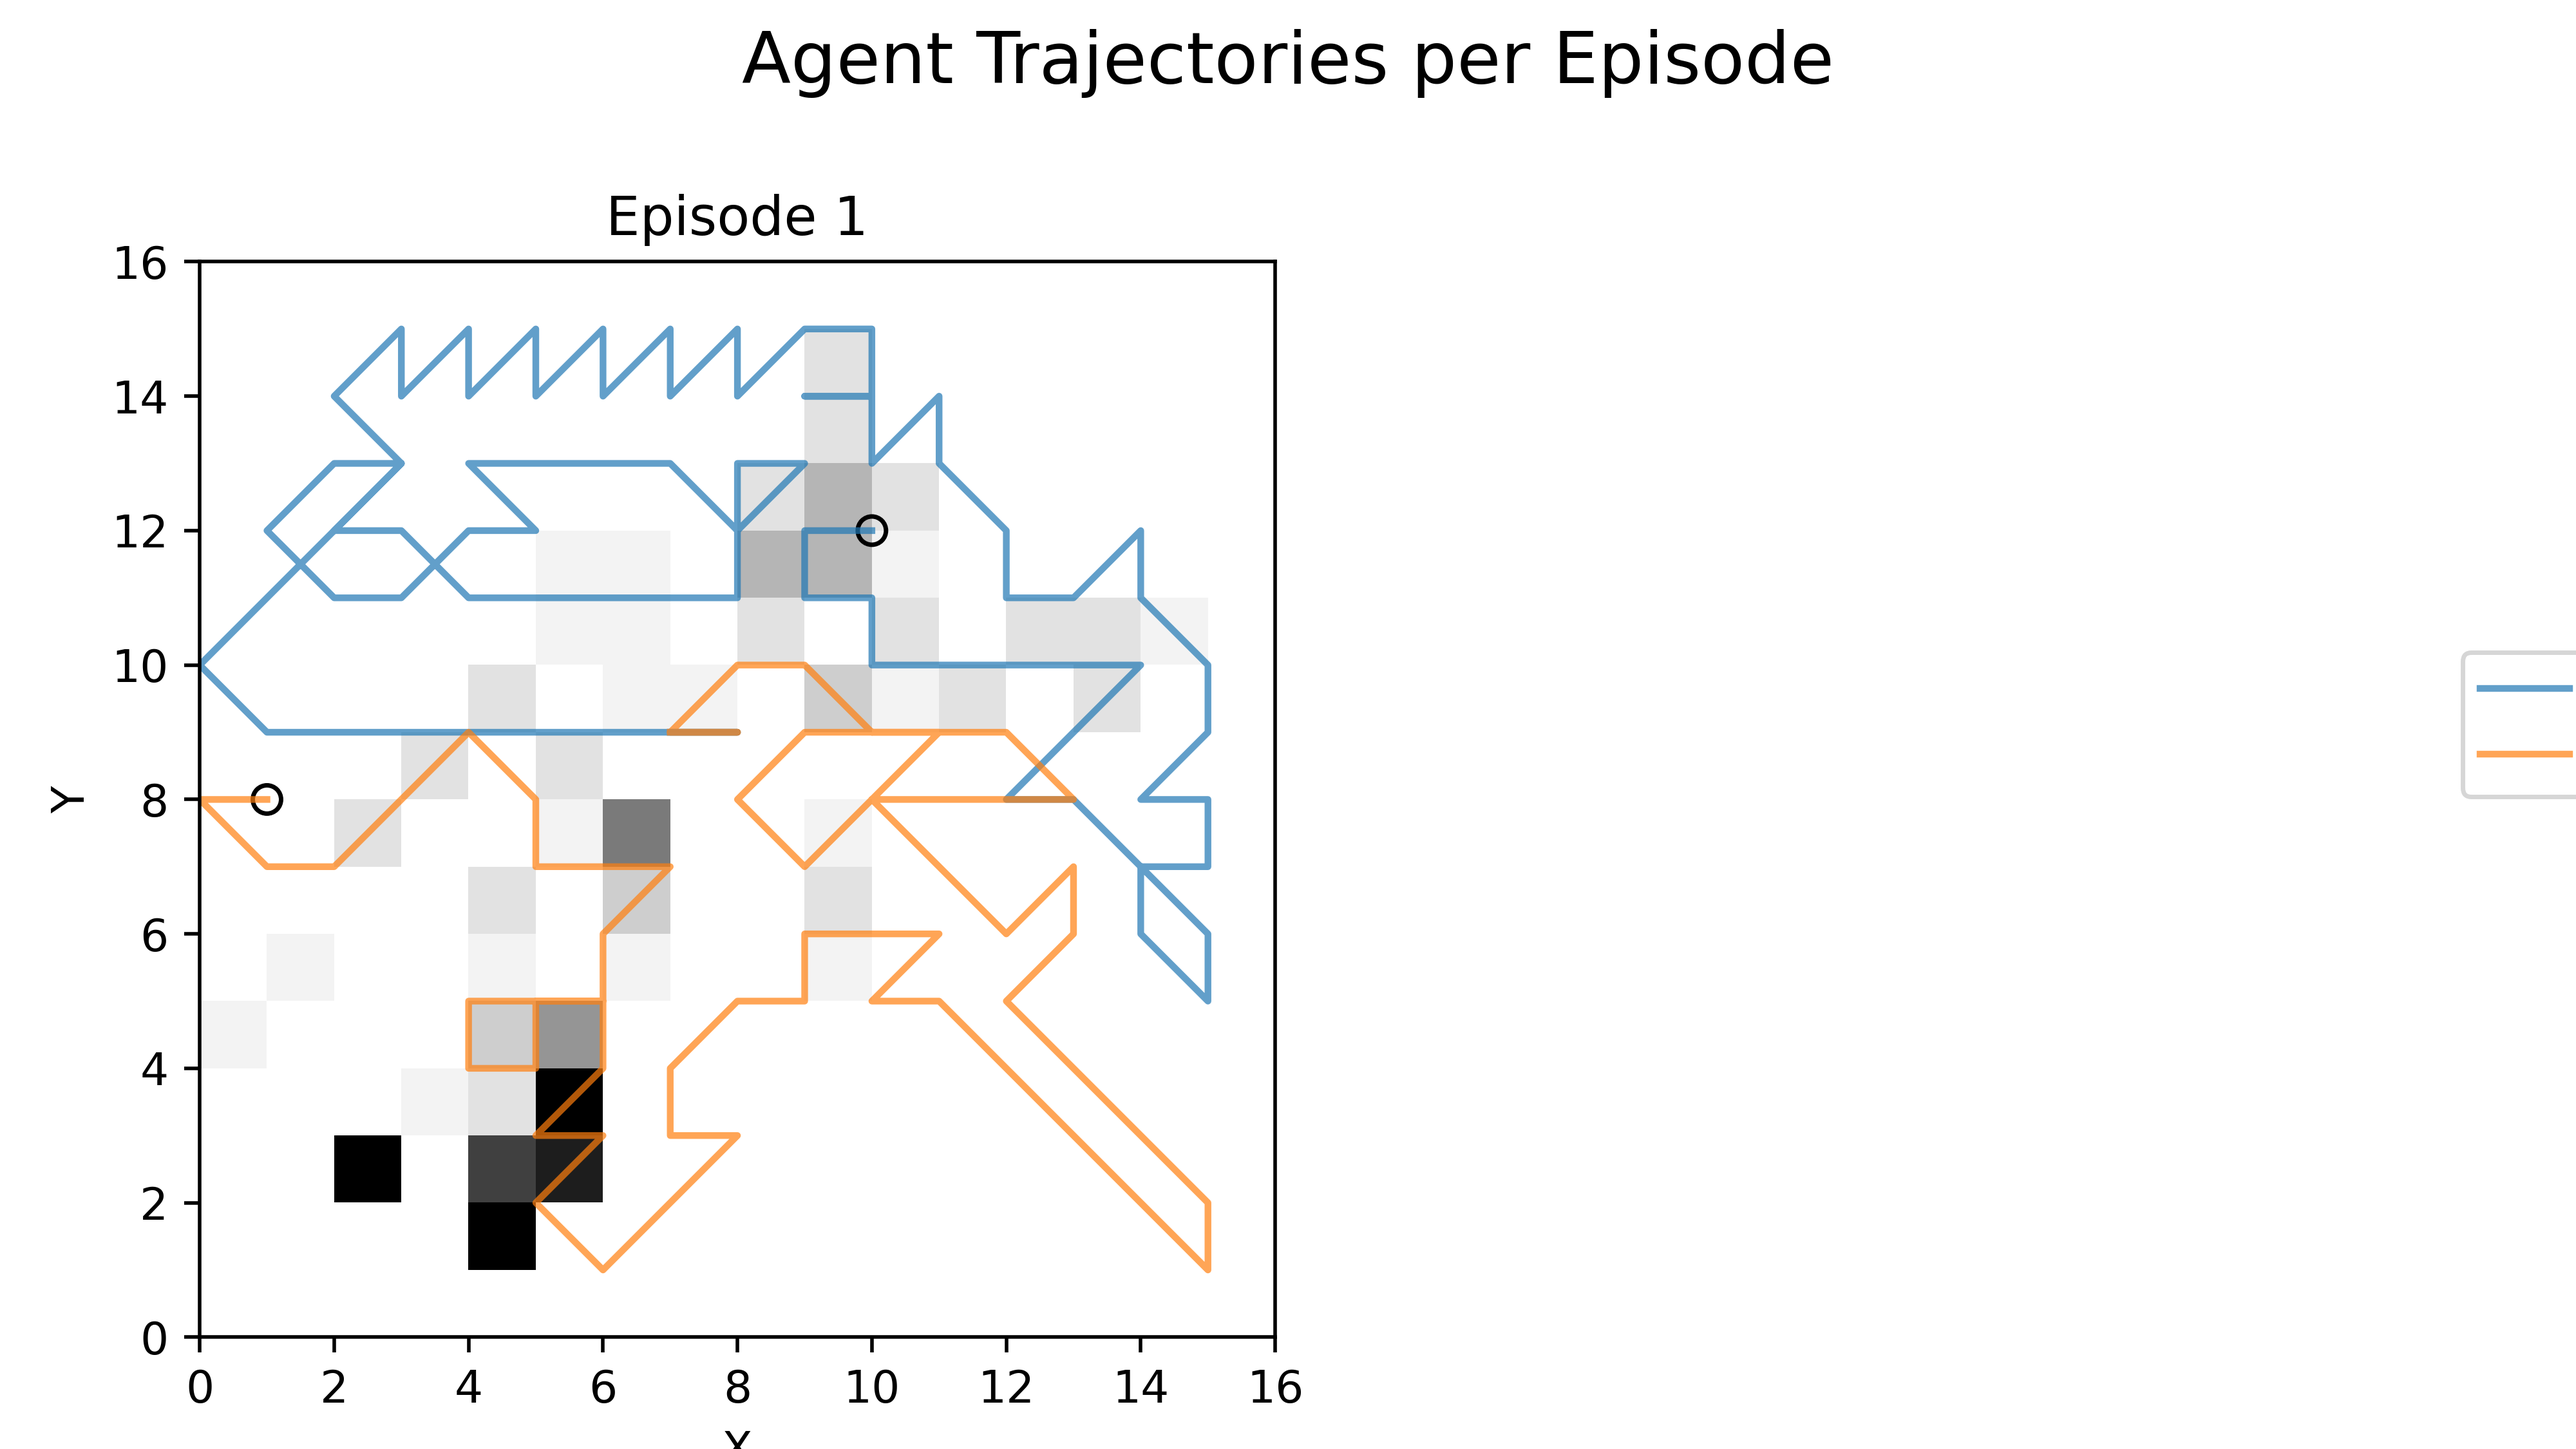
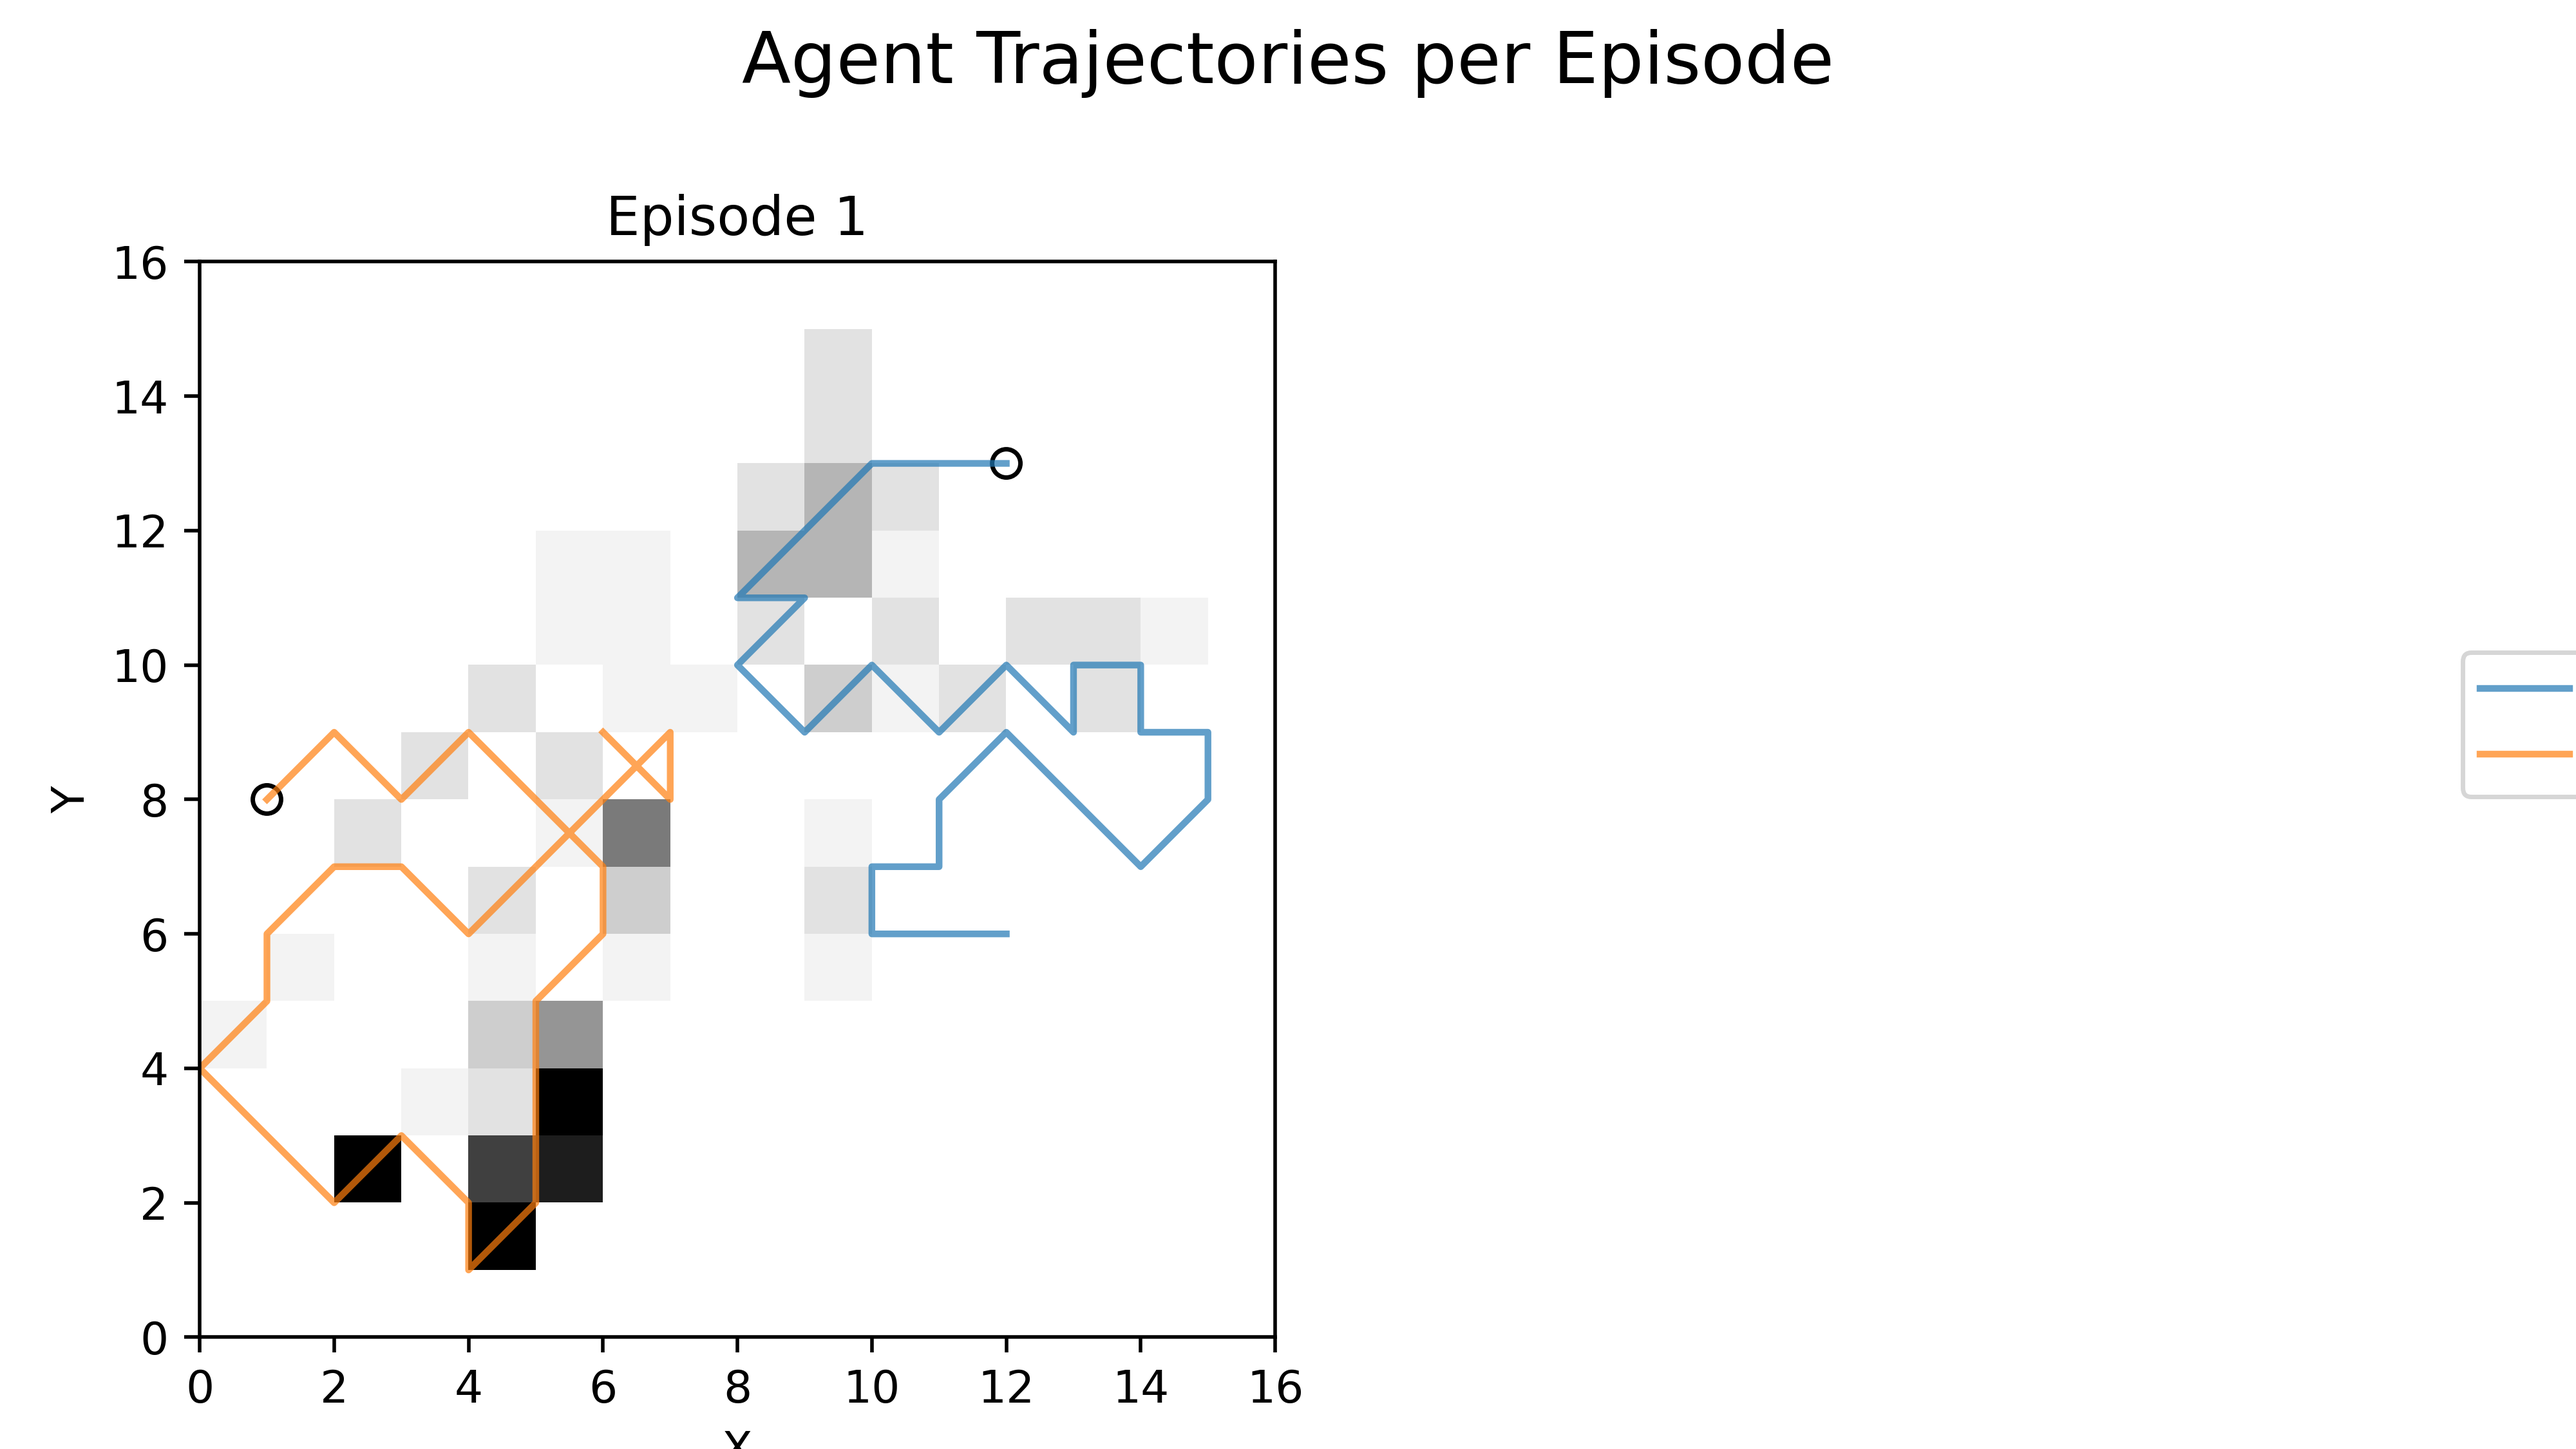
sexy plot

diff --git a/src/gym_script.py b/src/gym_script.py
@@ -11,7 +11,7 @@ import pandas as pd
 from collections import defaultdict
 import math
 
-N_EPISODES = 100
+N_EPISODES = 1000
 UPDATE_STEP = 1     # Update q_values after each step
 BETA = 0.6
 ALPHA = 0.1
